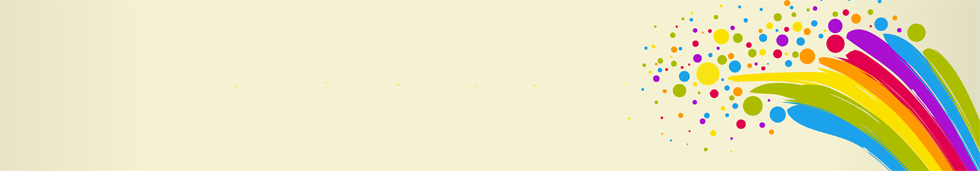
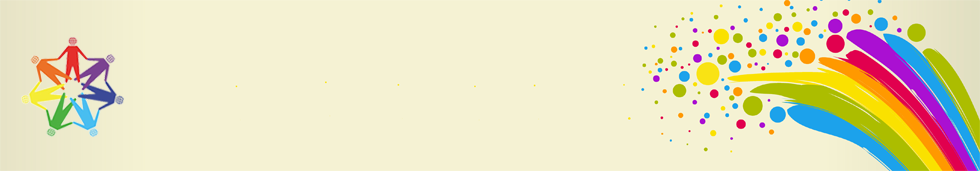
new header

Changed region(s): [[0.0, 0.2047, 0.1224, 0.7895]]

diff --git a/csslib/style.css b/csslib/style.css
@@ -147,7 +147,7 @@ ul h4 {
 
 #logo {
 	height: 160px;
-	padding: 45px 0 0 0;
+	padding: 45px 0 0 90px;
 	position: absolute;
 	top: 0;
 	left: 45px;

diff --git a/application/views/about/core.php b/application/views/about/core.php
@@ -54,13 +54,6 @@
 <p>
 黄圣莺于2012年加入“教育先行”，主要负责各大高校志愿者招募。
 </p>
-<h3> 林舒  联合创始人 </h3>
-<p>
-现于麦肯锡中国城市计划任职。硕士毕业于哈佛大学，专修教育学，研究方向是人类发展与心理学。本科毕业于上海外国语大学。曾在哈佛大学教育学院担任研究助理，并参与由联合国儿童基金会出资的幼儿教育系统研究项目。从高中时代支教开始，便一直希望能让更多孩子得到更好的学习机会。
-<p>
-</p>
-林舒于2011年共同创建了 “教育先行”。
-</p>
 
 <h3>强闰伟 网络技术部干事</h3>
 <p>

diff --git a/application/views/activity/course.php b/application/views/activity/course.php
@@ -11,7 +11,7 @@
 </p>
 
 <p>
-<img src="images/course1.png" alt="图 2 彩虹行动课程目标-认识自我" width=700></img>
+<img src="images/course1.png" alt="图 2 彩虹行动课程目标-认识自我" width=600></img>
 </p>
 
 <h3>认识他人，学会沟通尊重，培养团队精神</h3>
@@ -23,7 +23,7 @@
 下图展现了本部分课程希望传达的理念：
 </p>
 <p>
-<img src="images/course2.png" alt="图 3 彩虹行动课程目标-认识他人" width=700></img>
+<img src="images/course2.png" alt="图 3 彩虹行动课程目标-认识他人" width=600></img>
 </p>
 
 <h3>认识世界</h3>

diff --git a/application/views/about/index.php b/application/views/about/index.php
@@ -4,6 +4,8 @@
     教育先行（EduRunner）成立于2011年，是一个由留美学子创立的、在美国注册的公益组织。我们关注教育公平，致力于青少年个人发展的咨询和培训。通过提供与能力建设相关的培训课程、工作坊等活动，促进青少年个性发展，提高他们团队合作和社会参与的能力。
     </p>
 
+    <img src="images/logo.jpg" class="pic" alt="组织LOGO" titile="EduRunner"></img>
+
     <p>
     目前，教育先行的主打活动是“彩虹行动”新市民子弟多彩夏令营。
     </p>
